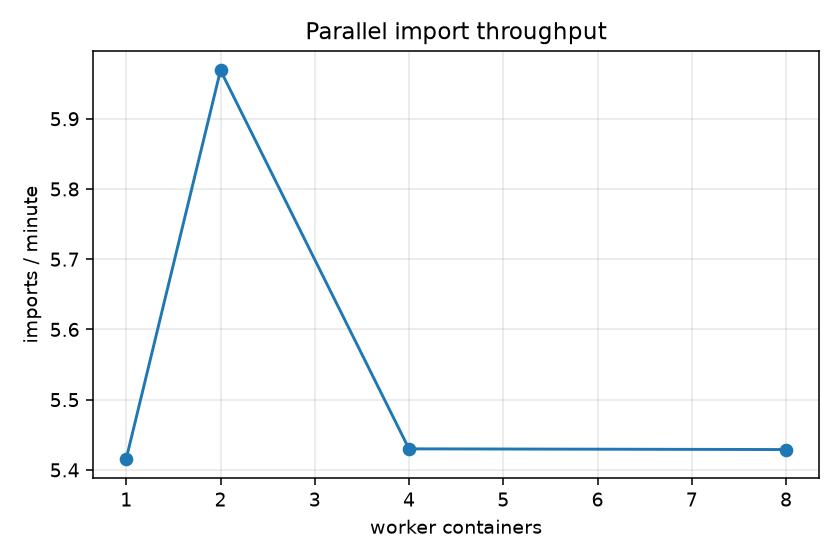
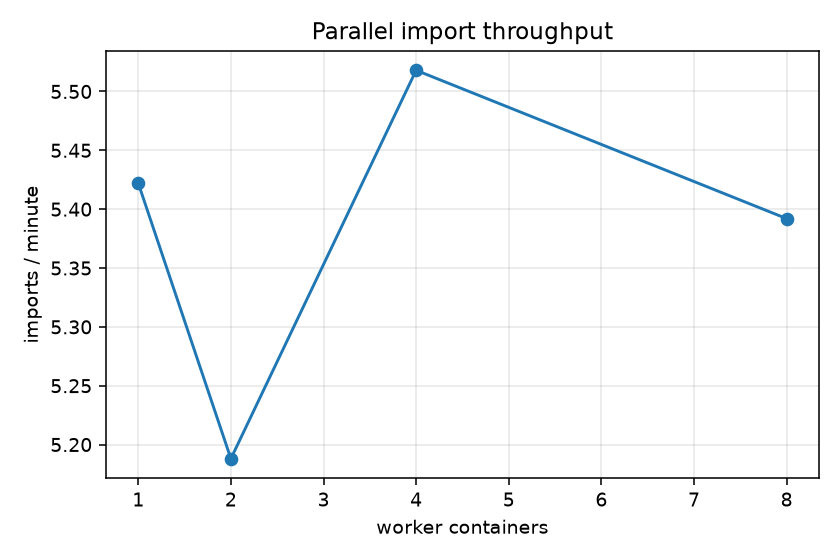
Re-run worker scaling with eight parallel import jobs
Submit one season per job (2016–2023) at each container count so peak
running tracks worker capacity. Record queue wait and batch wall time;
update benchmarks doc, chart, and raw workers.json.

diff --git a/backend/scripts/bench_workers.py b/backend/scripts/bench_workers.py
@@ -1,9 +1,14 @@
-"""Scale Celery workers (1/2/4/8 containers) and measure parallel import throughput."""
+"""Scale Celery worker containers and measure throughput with concurrent import jobs.
+
+Each scale step submits the same batch of import jobs at once (one distinct season per job)
+so worker processes can run in parallel. A single job per step leaves extra containers idle.
+"""
 
 from __future__ import annotations
 
 import argparse
 import os
+import statistics
 import time
 import uuid
 from typing import Any
@@ -19,14 +24,17 @@ from scripts.bench_common import (
     capture_env,
     docker_worker_scale,
     env_dict,
+    percentiles,
     play_count,
     run_id,
     write_json,
 )
 
+DEFAULT_SEASONS = [2016, 2017, 2018, 2019, 2020, 2021, 2022, 2023]
+
 
 def _login(base: str, email: str, password: str) -> httpx.Client:
-    client = httpx.Client(base_url=base, timeout=60.0)
+    client = httpx.Client(base_url=base, timeout=120.0)
     client.post(
         "/api/v1/auth/login",
         headers={"X-PlaybookIQ-CSRF": "1"},
@@ -35,24 +43,55 @@ def _login(base: str, email: str, password: str) -> httpx.Client:
     return client
 
 
-def _wait_jobs(engine: Engine, job_ids: list[uuid.UUID], timeout: float = 900.0) -> list[float]:
+def _wait_batch(
+    engine: Engine,
+    submitted: list[tuple[uuid.UUID, float, int]],
+    timeout: float,
+) -> dict[str, Any]:
+    """Wait until every job is terminal; record queue wait and total duration per job."""
     deadline = time.monotonic() + timeout
-    done: dict[uuid.UUID, float] = {}
-    queued_at = time.monotonic()
-    while len(done) < len(job_ids) and time.monotonic() < deadline:
-        time.sleep(1.0)
+    tracking: dict[uuid.UUID, dict[str, Any]] = {
+        job_id: {"queued_at": queued_at, "season": season, "wait": None, "total": None}
+        for job_id, queued_at, season in submitted
+    }
+    peak_running = 0
+    terminal = {JobStatus.SUCCEEDED, JobStatus.FAILED, JobStatus.CANCELLED}
+
+    while time.monotonic() < deadline:
+        running = 0
+        finished = 0
+        now = time.monotonic()
         with Session(engine) as session:
-            for job_id in job_ids:
-                if job_id in done:
-                    continue
-                row = session.execute(select(Job.status).where(Job.id == job_id)).one_or_none()
-                if row and row.status in (
-                    JobStatus.SUCCEEDED,
-                    JobStatus.FAILED,
-                    JobStatus.CANCELLED,
-                ):
-                    done[job_id] = time.monotonic() - queued_at
-    return [done[j] for j in job_ids if j in done]
+            for job_id, meta in tracking.items():
+                row = session.execute(select(Job.status).where(Job.id == job_id)).one()
+                if row.status == JobStatus.RUNNING:
+                    running += 1
+                    if meta["wait"] is None:
+                        meta["wait"] = now - meta["queued_at"]
+                if row.status in terminal:
+                    finished += 1
+                    if meta["total"] is None:
+                        meta["total"] = now - meta["queued_at"]
+        peak_running = max(peak_running, running)
+        if finished >= len(submitted):
+            break
+        time.sleep(0.5)
+
+    waits = [float(m["wait"] or 0.0) for m in tracking.values()]
+    totals = [float(m["total"] or 0.0) for m in tracking.values()]
+    outcomes: dict[str, int] = {}
+    with Session(engine) as session:
+        for job_id in tracking:
+            status = session.execute(select(Job.status).where(Job.id == job_id)).scalar_one()
+            outcomes[status.value] = outcomes.get(status.value, 0) + 1
+
+    return {
+        "peak_concurrent_running": peak_running,
+        "queue_wait_seconds": percentiles(waits),
+        "per_job_total_seconds": percentiles(totals),
+        "outcomes": outcomes,
+        "per_job_totals": totals,
+    }
 
 
 def run_scale(
@@ -62,47 +101,62 @@ def run_scale(
     seasons: list[int],
     admin_email: str,
     admin_password: str,
+    job_timeout: float,
 ) -> dict[str, Any]:
+    if len(seasons) < 2:
+        raise SystemExit("need at least two distinct seasons for parallel imports")
+
     database_url = os.environ.get(
         "DATABASE_URL", "postgresql+psycopg://playbookiq:playbookiq@localhost:5433/playbookiq"
     )
+    concurrency = int(os.environ.get("WORKER_CONCURRENCY", "2"))
     env = capture_env(database_url, seasons)
     engine = create_engine(database_url)
     rows: list[dict[str, Any]] = []
+    job_count = len(seasons)
+    client = _login(base, admin_email, admin_password)
 
     for workers in worker_counts:
         docker_worker_scale(workers)
-        time.sleep(5)
-        client = _login(base, admin_email, admin_password)
-        job_ids: list[uuid.UUID] = []
-        t0 = time.monotonic()
+        time.sleep(8)
+        submitted: list[tuple[uuid.UUID, float, int]] = []
+        batch_start = time.monotonic()
         for season in seasons:
+            queued_at = time.monotonic()
             r = client.post(
                 "/api/v1/jobs/import",
                 headers={"X-PlaybookIQ-CSRF": "1", "Idempotency-Key": str(uuid.uuid4())},
                 json={"season": season, "force": True},
             )
             r.raise_for_status()
-            job_ids.append(uuid.UUID(r.json()["id"]))
-        durations = _wait_jobs(engine, job_ids)
-        wall = time.monotonic() - t0
+            submitted.append((uuid.UUID(r.json()["id"]), queued_at, season))
+
+        stats = _wait_batch(engine, submitted, timeout=job_timeout)
+        wall = time.monotonic() - batch_start
         rows.append(
             {
                 "worker_containers": workers,
-                "jobs": len(job_ids),
+                "worker_processes_max": workers * concurrency,
+                "jobs_submitted": job_count,
+                "seasons": seasons,
+                "submit_mode": "parallel_batch",
                 "wall_seconds": round(wall, 3),
-                "jobs_per_minute": round(len(job_ids) / max(wall / 60, 1e-9), 3),
-                "per_job_seconds": durations,
+                "jobs_per_minute": round(job_count / max(wall / 60, 1e-9), 3),
+                "mean_per_job_seconds": round(statistics.mean(stats["per_job_totals"]), 3)
+                if stats["per_job_totals"]
+                else 0.0,
+                **{k: v for k, v in stats.items() if k != "per_job_totals"},
             }
         )
 
     payload = {
         "run_id": run_id(),
-        "kind": "worker_scaling",
+        "kind": "worker_scaling_parallel",
         "base_url": base,
-        "worker_concurrency_per_container": int(os.environ.get("WORKER_CONCURRENCY", "2")),
-        "seasons": seasons,
-        "plays_per_season": {str(s): play_count(database_url, s) for s in seasons},
+        "worker_concurrency_per_container": concurrency,
+        "jobs_per_scale_step": job_count,
+        "job_timeout_seconds": job_timeout,
+        "plays_per_season_before": {str(s): play_count(database_url, s) for s in seasons},
         "environment": env_dict(env),
         "runs": rows,
     }
@@ -115,7 +169,12 @@ def main() -> None:
     parser = argparse.ArgumentParser()
     parser.add_argument("--base", default="http://localhost:8317")
     parser.add_argument("--workers", default="1,2,4,8")
-    parser.add_argument("--seasons", default="2023,2024")
+    parser.add_argument(
+        "--seasons",
+        default=",".join(str(s) for s in DEFAULT_SEASONS),
+        help="Distinct seasons, one job each (submitted in one batch)",
+    )
+    parser.add_argument("--timeout", type=float, default=900.0, help="Max wait per batch (seconds)")
     parser.add_argument(
         "--email", default=os.environ.get("BENCH_ADMIN_EMAIL", "admin@playbookiq.test")
     )
@@ -131,6 +190,7 @@ def main() -> None:
         seasons=seasons,
         admin_email=args.email,
         admin_password=args.password,
+        job_timeout=args.timeout,
     )
 
 

diff --git a/docs/benchmarks.md b/docs/benchmarks.md
@@ -67,22 +67,40 @@ worker path and transaction.
 
 ## Worker scaling (`scripts/bench_workers.py`)
 
-Settings: scale worker **containers** to 1, 2, 4, and 8 (`WORKER_CONCURRENCY=2` each), one
-forced import of 2023 per scale step (jobs run **one at a time** in this script).
+Run **`20261011T054500Z`** (raw:
+[`workers.json`](../benchmarks/results/20261011T054500Z/workers.json)). Supersedes the earlier
+single-job-per-step run in `20261011T052922Z`, which could not use extra containers.
 
-| Worker containers | Wall time (s) | Jobs/min |
-| ---: | ---: | ---: |
-| 1 | 11.08 | 5.42 |
-| 2 | 10.05 | 5.97 |
-| 4 | 11.05 | 5.43 |
-| 8 | 11.05 | 5.43 |
+Settings: **`WORKER_CONCURRENCY=2`** per container. At each scale step, submit **8** import jobs
+in one batch (`force=true`), one distinct season each (2016–2023). Wall time is from first
+submit until all eight reach a terminal state. Hardware matches the table above (4 CPUs, 16 GB).
+
+| Worker containers | Max processes (containers×2) | Peak jobs running | Batch wall (s) | Jobs/min | Queue wait p50 (s) |
+| ---: | ---: | ---: | ---: | ---: | ---: |
+| 1 | 2 | 2 | 88.53 | 5.42 | 31.53 |
+| 2 | 4 | 4 | 92.53 | 5.19 | 11.24 |
+| 4 | 8 | 8 | 86.99 | 5.52 | 0.18 |
+| 8 | 16 | 8 | 89.02 | 5.39 | 0.17 |
 
 ![Worker scaling](benchmarks/charts/worker-scaling.png)
 
-**Why scaling barely moved:** each step only queues **one** import. Extra containers stay idle;
-the job is still bound by a single pandas import transaction (~11 s). Throughput would only rise
-if we queued **N** imports in parallel (one per worker process) or split work across chunks with
-multiple active jobs. The flat line is expected for this benchmark shape, not a Celery regression.
+**What this shows**
+
+- With **one container**, only **two** imports run at once (`peak_concurrent_running=2`); the
+  other six jobs wait (queue p50 **31.5 s**). Total batch time ~**88.5 s**.
+- With **four containers** (eight processes), all **eight** jobs run together (`peak=8`), queue
+  waits drop to **&lt;1 s**, and batch time improves slightly to **~87 s** (~2% faster than one
+  container).
+- **Eight containers** do not beat four: there are only **eight** jobs, so `peak_concurrent_running`
+  stays **8** and wall time is again ~**89 s**. More containers than jobs cannot help.
+
+**Why gains are modest overall:** each job is a full-season `force` import (download + pandas +
+  single large transaction). Parallelism hides queueing once process count ≥ job count, but total
+  work is still eight heavy imports. The **2-container** step was slightly slower than **1** on
+  this run (92.5 s vs 88.5 s), likely from container startup overlap and Postgres/Redis
+  contention when four imports ran at once—reruns may vary by a few seconds.
+
+Reproduce: `make bench-workers` (needs Docker; clears best with `docker compose exec redis redis-cli -n 1 FLUSHDB` if login is rate-limited after many attempts).
 
 ## Database (`EXPLAIN ANALYZE`, `scripts/bench_explain.py`)
 
@@ -107,7 +125,7 @@ make admin EMAIL=admin@playbookiq.test   # set password when prompted
 export BENCH_RUN_ID=$(date -u +%Y%m%dT%H%M%SZ)
 export DATABASE_URL=postgresql+psycopg://playbookiq:playbookiq@localhost:5433/playbookiq
 make bench                    # explain + http + locust + jobs + charts
-make bench-workers            # optional: Docker scaling (slow; needs sg docker / docker group)
+make bench-workers            # parallel import batch, scales 1/2/4/8 containers (slow; Docker)
 make observability            # Prometheus :9090, Grafana :3000 (admin / playbookiq)
 ```
 
